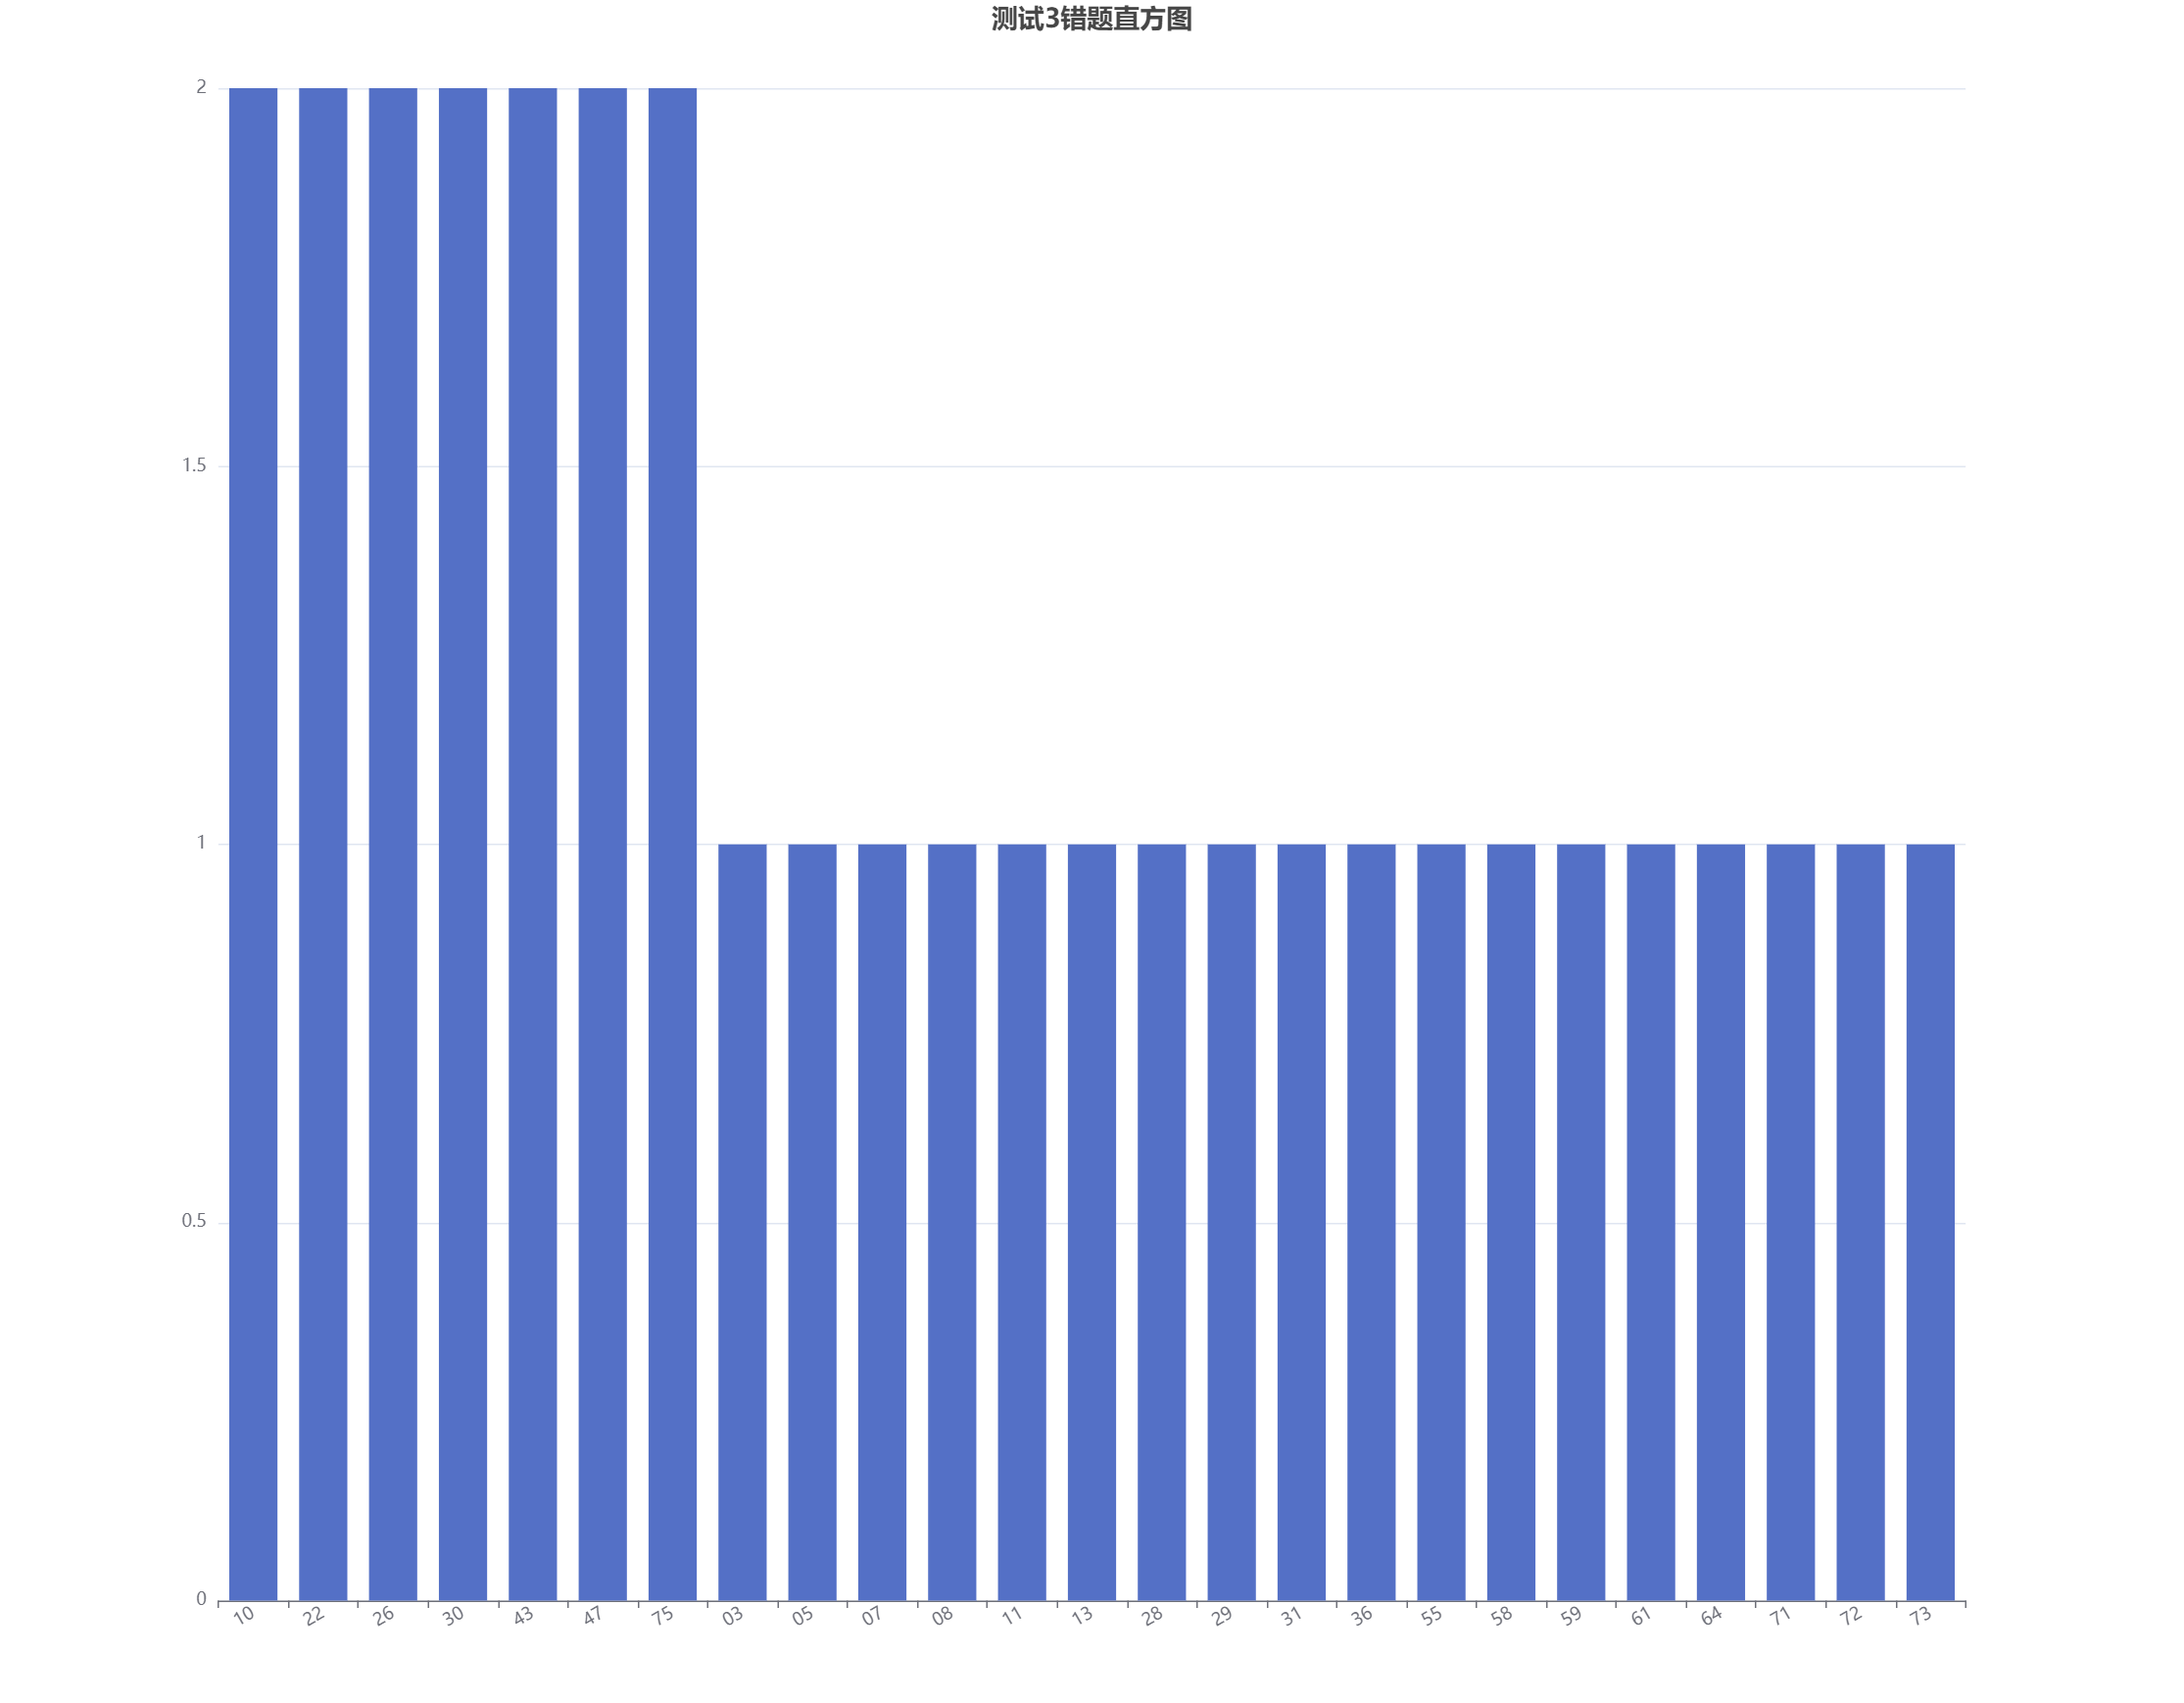
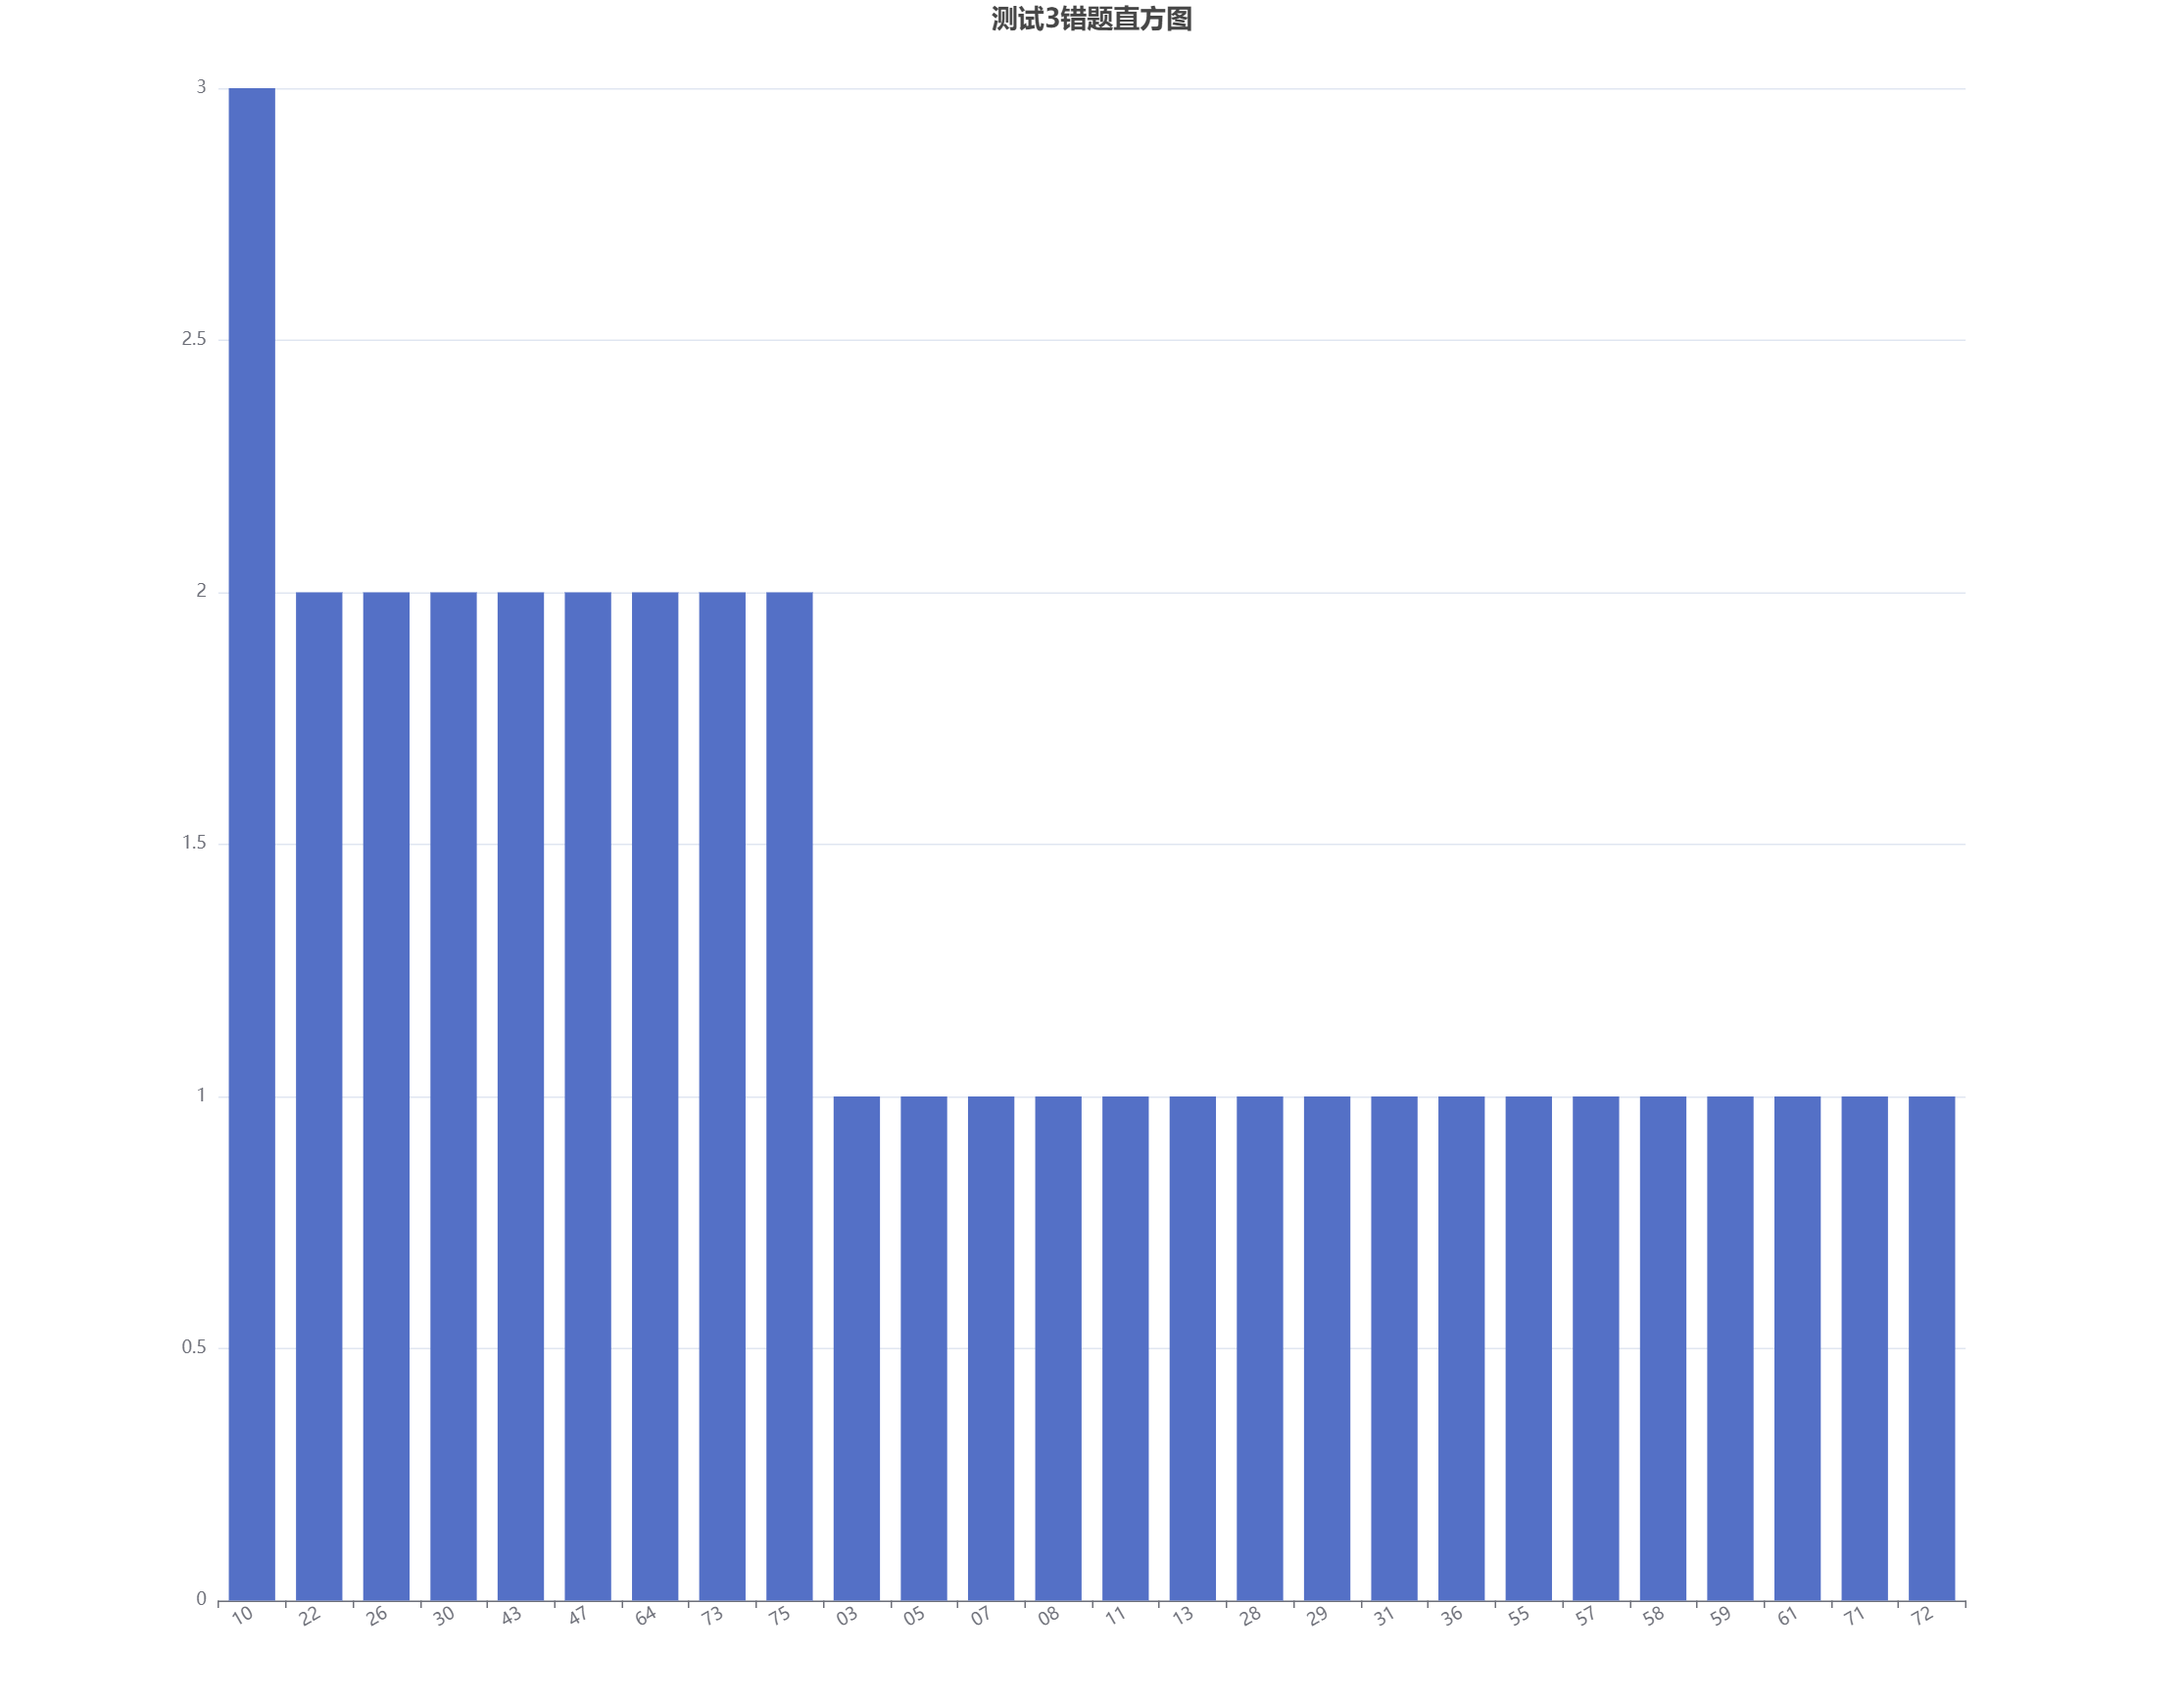
[update] update test result of topic3

Changed region(s): [[0.1238, 0.0311, 0.8977, 0.9632]]

diff --git a/src/result.js b/src/result.js
@@ -131,7 +131,7 @@ option = {
         ['05', 1],
         ['07', 1],
         ['08', 1],
-        ['10', 2],
+        ['10', 3],
         ['11', 1],
         ['13', 1],
         ['22', 2],
@@ -144,13 +144,14 @@ option = {
         ['43', 2],
         ['47', 2],
         ['55', 1],
+        ['57', 1],
         ['58', 1],
         ['59', 1],
         ['61', 1],
-        ['64', 1],
+        ['64', 2],
         ['71', 1],
         ['72', 1],
-        ['73', 1],
+        ['73', 2],
         ['75', 2],
       ],
     },

diff --git a/src/rate.js b/src/rate.js
@@ -88,7 +88,7 @@ option = {
   },
   xAxis: {
     type: 'category',
-    data: ['第一回', '第二回'],
+    data: ['第一回', '第二回', '第三回'],
   },
   yAxis: {
     type: 'value',
@@ -99,7 +99,7 @@ option = {
   },
   series: [
     {
-      data: [69.7, 90.8],
+      data: [69.7, 90.8, 94.7],
       type: 'line',
       markLine: {
         symbol: ['none', 'none'],
